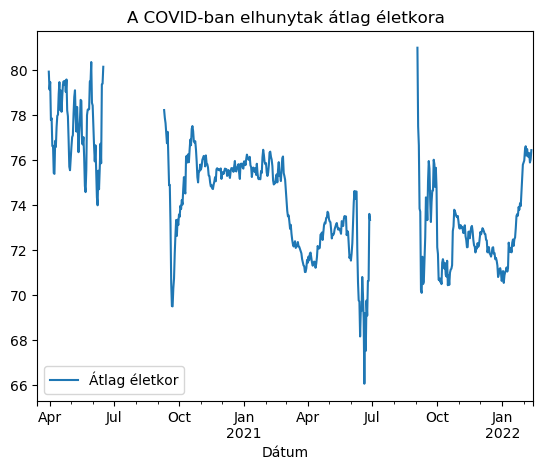
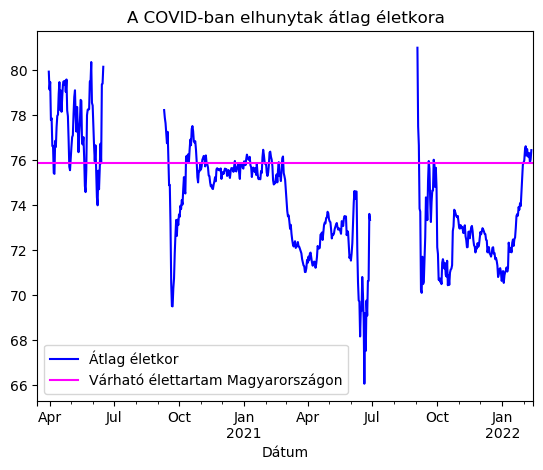
Születéskor várható élettartam

Changed region(s): [[0.0884, 0.0894, 1.0, 0.6553], [0.0884, 0.7447, 0.6483, 0.834], [0.5304, 0.3872, 0.7072, 0.8043]]

diff --git a/kép_elhunytak_átlag_életkora.py b/kép_elhunytak_átlag_életkora.py
@@ -8,6 +8,8 @@ import os
 
 BASEDIR=os.path.dirname(__file__)
 
+avg = 75.9
+
 df = pd.read_csv(BASEDIR +"/adatok/elhunytak_datummal.csv", parse_dates=['Dátum'])
 dfgrp = df.groupby('Dátum').agg(['sum', 'count'])
 
@@ -27,8 +29,12 @@ dfossz = dfgrp.rolling(7, center=True).sum()
 dfgrp['Heti elhunyt'] = dfossz['Elhunyt'].fillna(0)
 dfgrp['Átlag életkor'] = dfossz['Életkor összeg'] / dfossz['Elhunyt']
 dfgrp['Átlag életkor'] = dfgrp.apply(lambda row: float(row['Átlag életkor']) if int(row['Heti elhunyt']) >= 13 else np.NaN, axis=1)
+dfgrp['Várható élettartam Magyarországon'] = dfgrp.apply(lambda row: avg, axis=1)
+dfgrp = dfgrp.reset_index()
 
-plot = dfgrp.plot(x='Dátum', y='Átlag életkor', title='A COVID-ban elhunytak átlag életkora')
+plot = dfgrp.plot(x='Dátum', y=['Átlag életkor', 'Várható élettartam Magyarországon'], title='A COVID-ban elhunytak átlag életkora',
+                  color=['blue', 'magenta'], label=['Átlag életkor', 'Várható élettartam Magyarországon'])
+plot.legend(loc='lower left')
 
 fig = plot.get_figure()
 fig.savefig(BASEDIR + "/képek/ElhunytakÁtlagÉletkora.png", bbox_inches = "tight")
